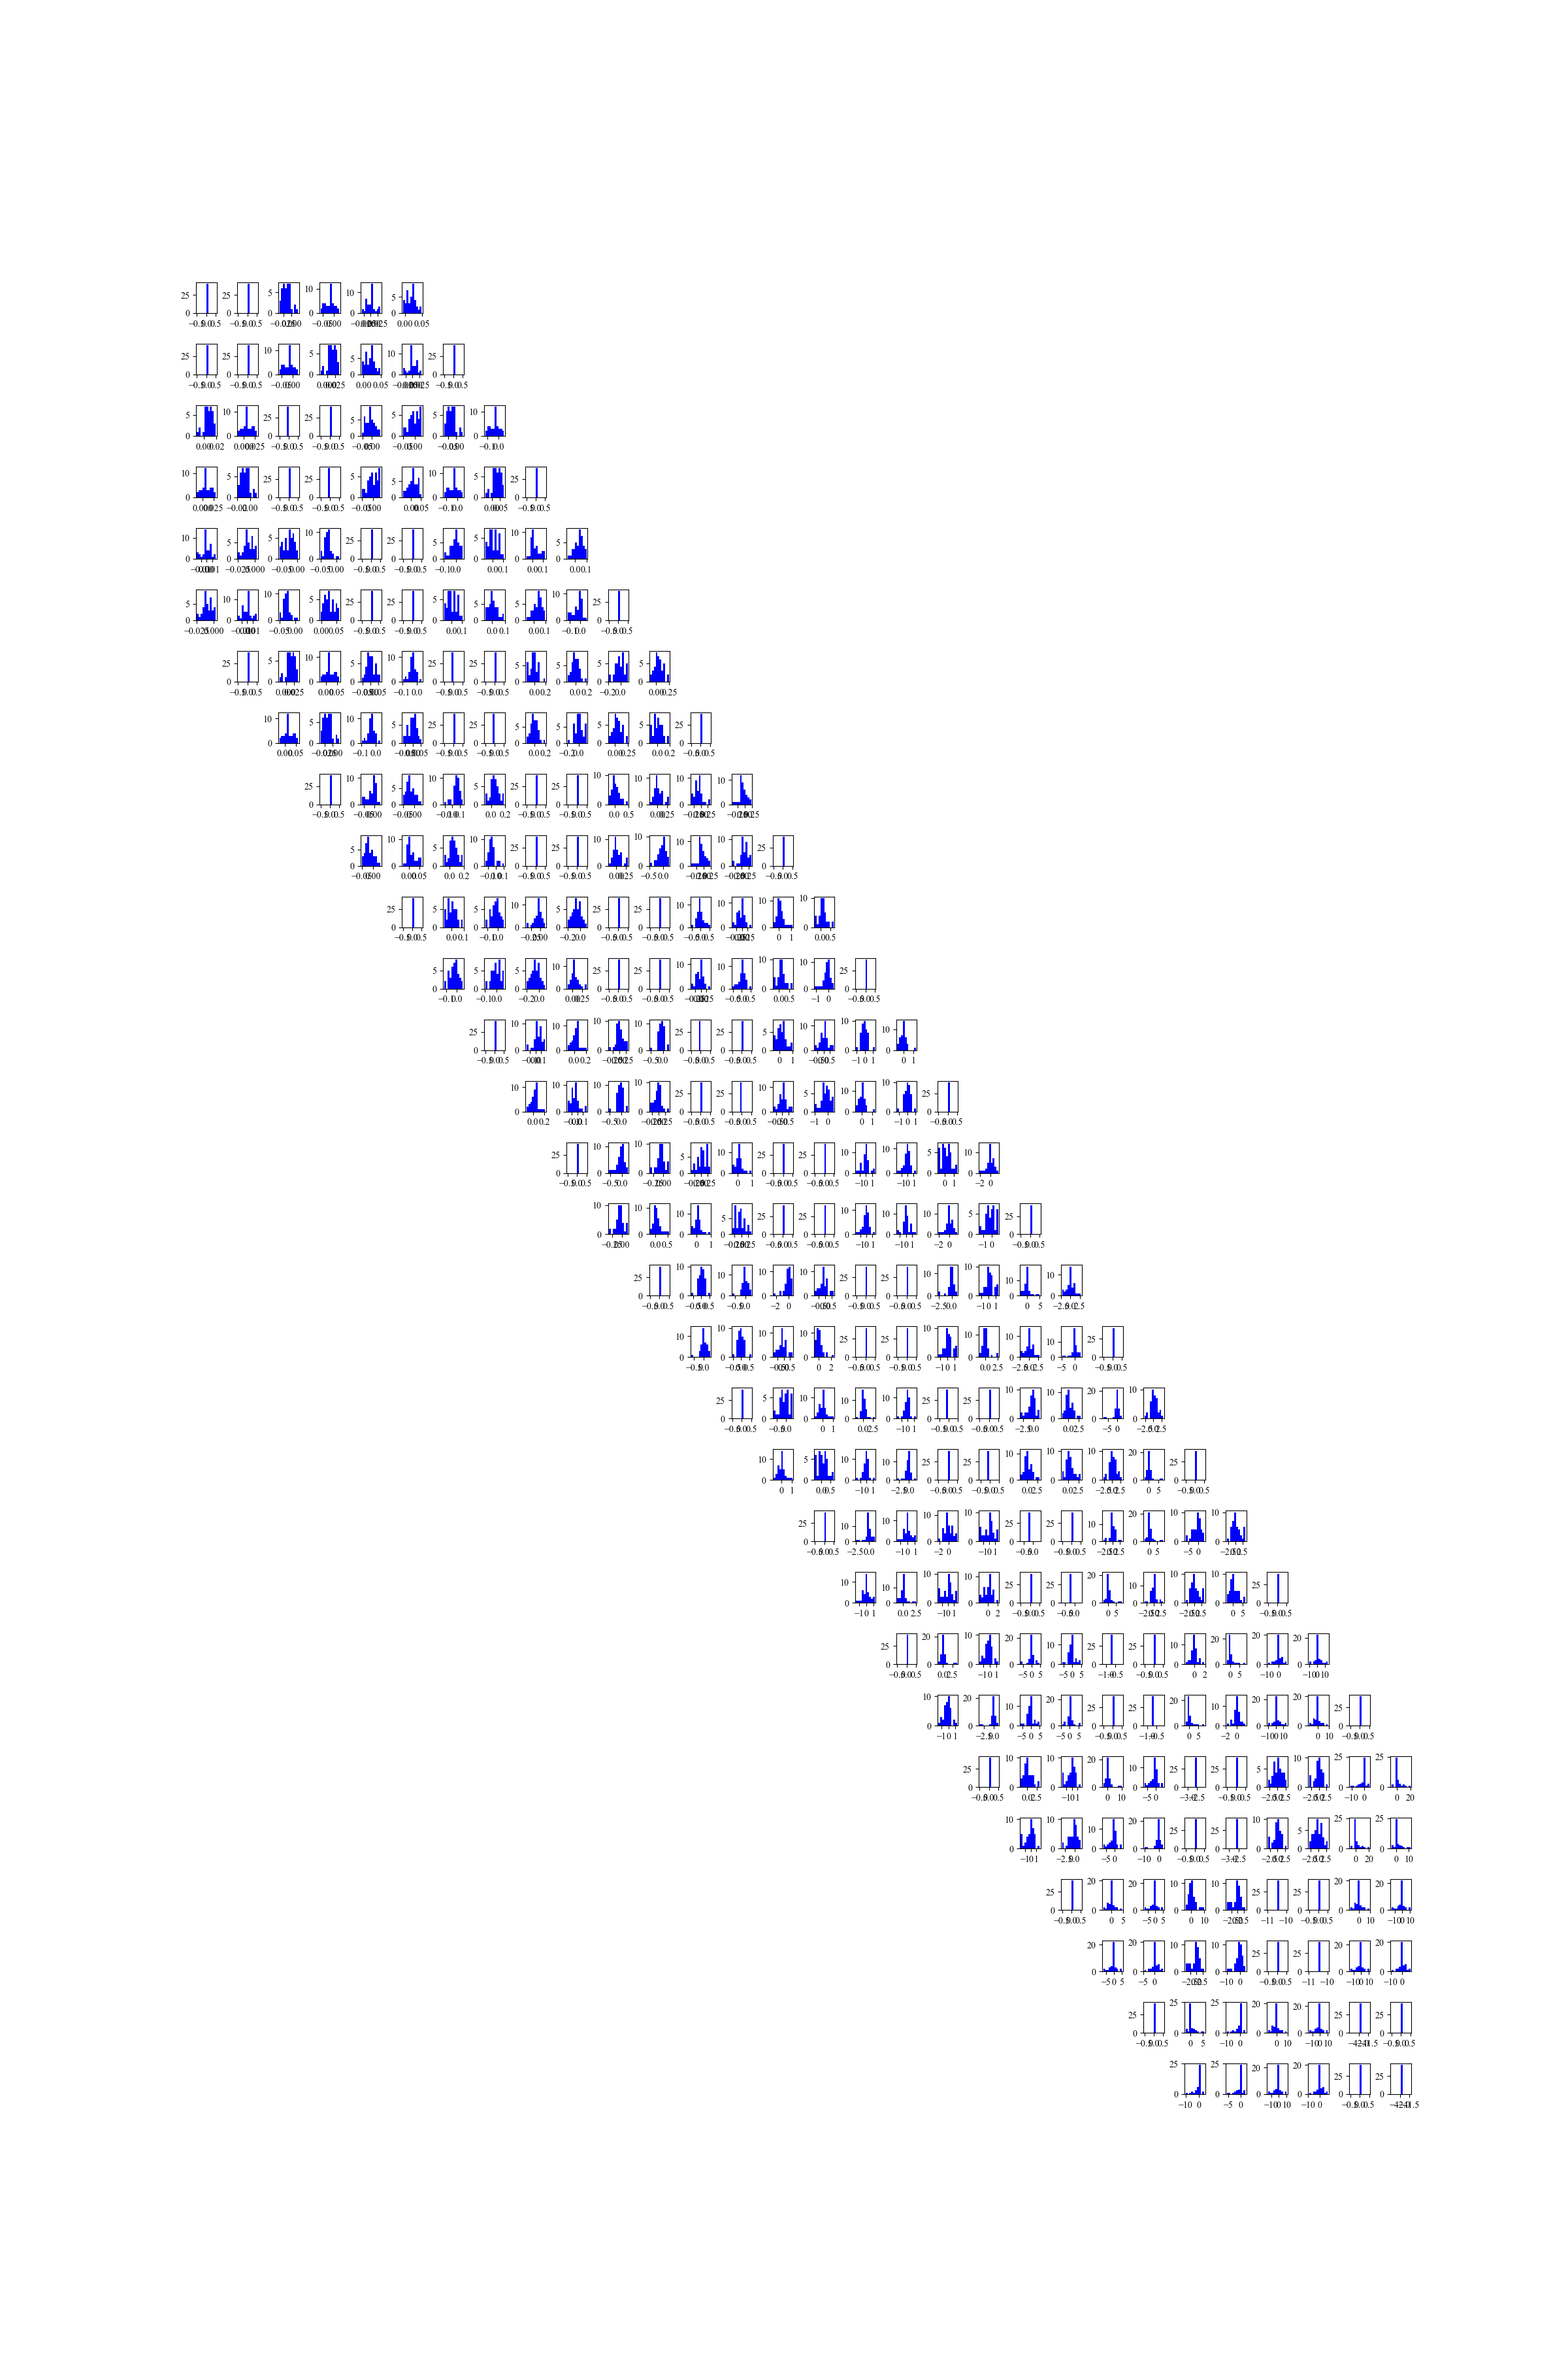
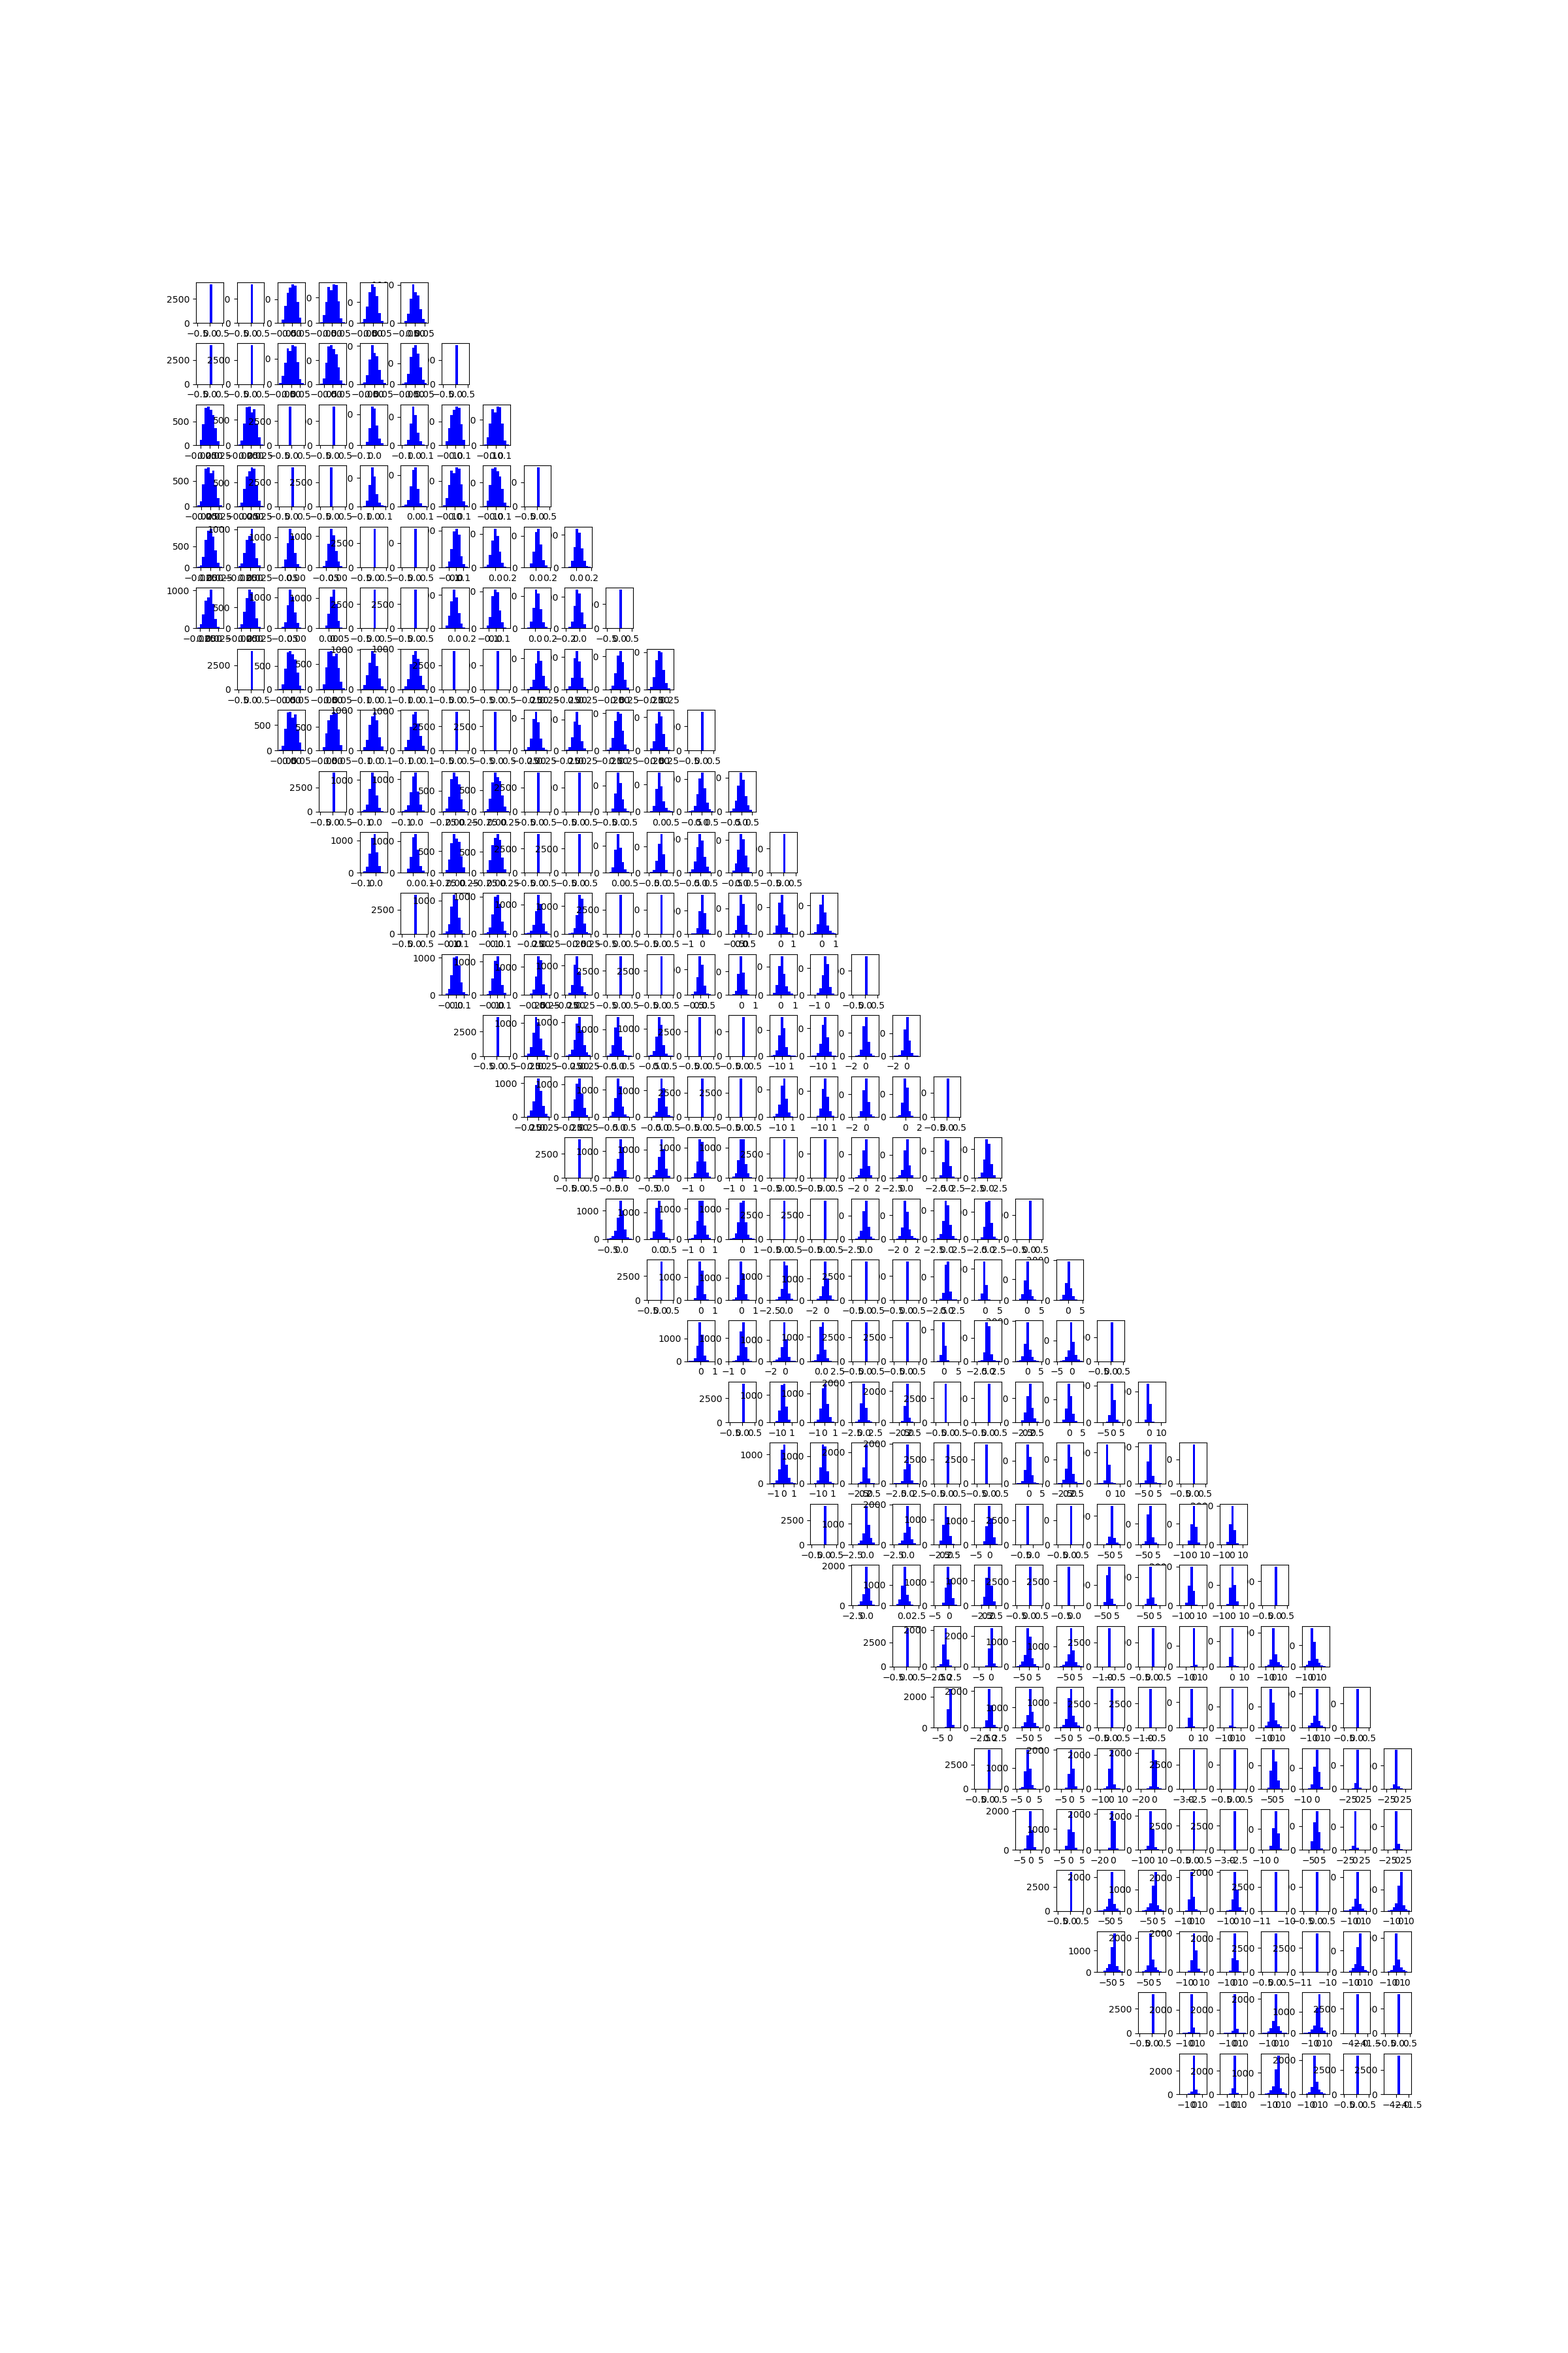
update jacobian observation

Changed region(s): [[0.125, 0.1244, 0.9062, 0.9022]]

diff --git a/code/jacobian_observation.cpp b/code/jacobian_observation.cpp
@@ -46,7 +46,7 @@ int main() {
     double latter = 1;
     int threads = omp_get_max_threads();
     Eigen::VectorXcd dummy = Eigen::VectorXd::Zero(15);
-    const char* fname = "../../beta0.5_nu1e-05_400period.npy";
+    const char* fname = "../../beta0.5_nu1e-05_40000period.npy";
     
     double repetitions = 1;
     double r = 1E-5;
@@ -202,8 +202,8 @@ int main() {
     }
 
     std::map<std::string, double> keywords;
-    keywords.insert(std::make_pair("hspace", 1)); // also right, top, bottom
-    keywords.insert(std::make_pair("wspace", 1)); // also hspace
+    keywords.insert(std::make_pair("hspace", 0.5)); // also right, top, bottom
+    keywords.insert(std::make_pair("wspace", 0.5)); // also hspace
     plt::subplots_adjust(keywords);
 
     std::ostringstream oss;
